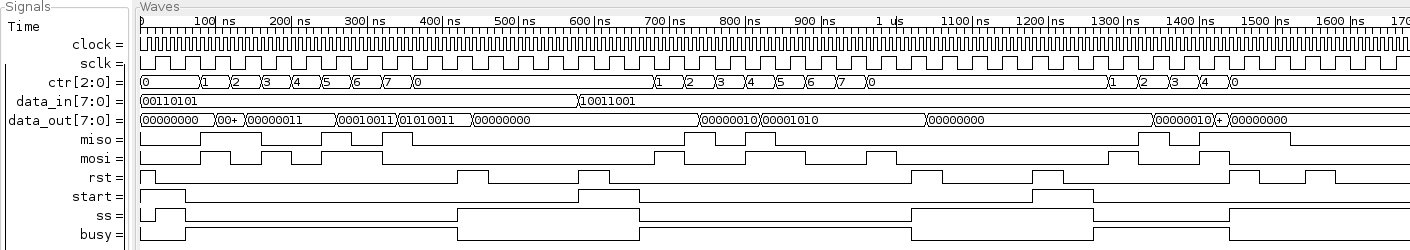
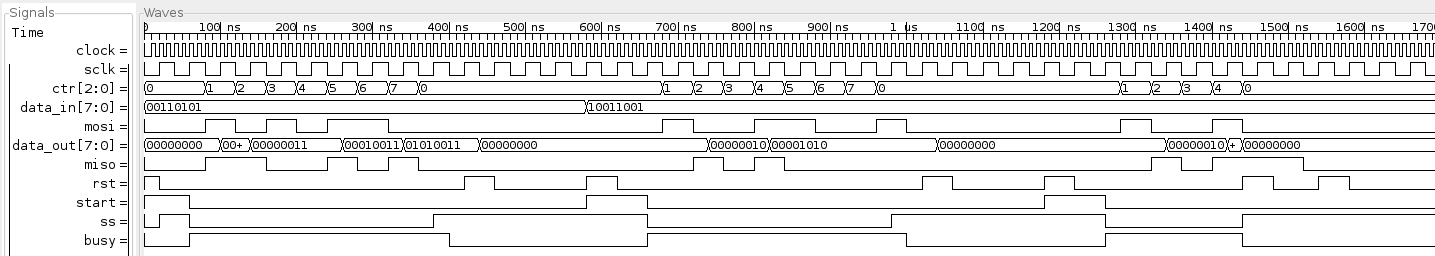
Improve SPI logic, reduce cycles overhead (now 8 cycles for a byte transaction)

diff --git a/src/systemc/spi.h b/src/systemc/spi.h
@@ -1,4 +1,19 @@
-// SPI, mode 0, only master mode
+/* 
+  SPI module, working in mode 0 (CPOL = 0, CPHA = 0), master only, transieves 8 bits in 8 cycles.
+  Ports:
+    clk   -- main input clock
+    sclk  -- synchronous clock for interaction between SPI modules. 4 times slower than clk.
+    rst   -- reset signal, level sensitive
+    busy  -- indicates last mosi/miso edge. Is high for 8.5 cycles.
+    ss    -- slave select. Is low for 8 cycles, set to high on last positive sclk edge of transaction.
+    start -- signal to start transaction, level sensitive.
+
+    data_in/data_out  -- mosi/miso registers
+    mosi/miso -- master out/master in wires. 
+                 Set to high on falling edge of sclk, 
+                 read happens on falling edge of sclk, 
+                 write to data_in/data_out on rising edge of sclk.
+*/
 
 #include "systemc.h"
 #include "clock.h"
@@ -19,9 +34,6 @@ SC_MODULE( spi ) {
   // Flag for transaction start
   bool toggle_start;
 
-  // Flag to indicate transaction ending
-  bool trans_end;
-
   // Indicate last bit transmission
   bool last;
 
@@ -39,7 +51,6 @@ SC_MODULE( spi ) {
     clk_gen.clock( clk );
     clk_gen.qclk( sclk );
 
-    trans_end = 0;
     toggle_start = 0;
 
     SC_METHOD( loop );

diff --git a/src/systemc/spi.cpp b/src/systemc/spi.cpp
@@ -35,7 +35,6 @@ void spi::end_transaction( ) {
 
   toggle_start = 0;
   last = 0;
-  trans_end = 0;
 }
 
 // Main SPI loop
@@ -48,27 +47,29 @@ void spi::loop( ) {
     return;
   }
 
-  if( trans_end ) {
-    end_transaction( );
-    return;
-  }
-
   // Main logic on every sclk tick
   if( sclk ) {
-    if( toggle_start && !trans_end ) {
+    if( toggle_start ) {
       rx( );
+
       busy.write( 1 );
       ss.write( 0 );
     } 
+
+    if( last ) ss.write( 1 );
+
   } else if( busy ) {
+
     tx( );
+
     if( !last ) {
       ctr.write( ctr.read( ) + 1 );
     } else {
-      trans_end = 1;
-      mosi.write( 0 );
+      end_transaction( );
     }
+
     if( ctr.read( ) == 7 ) last = 1;
+
   }
 
 }
